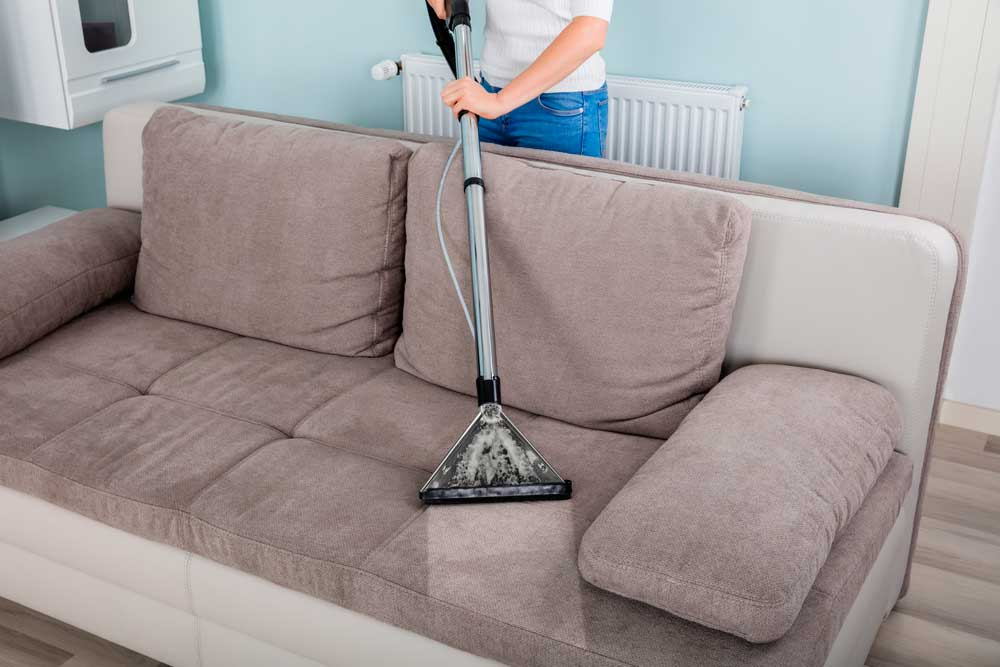
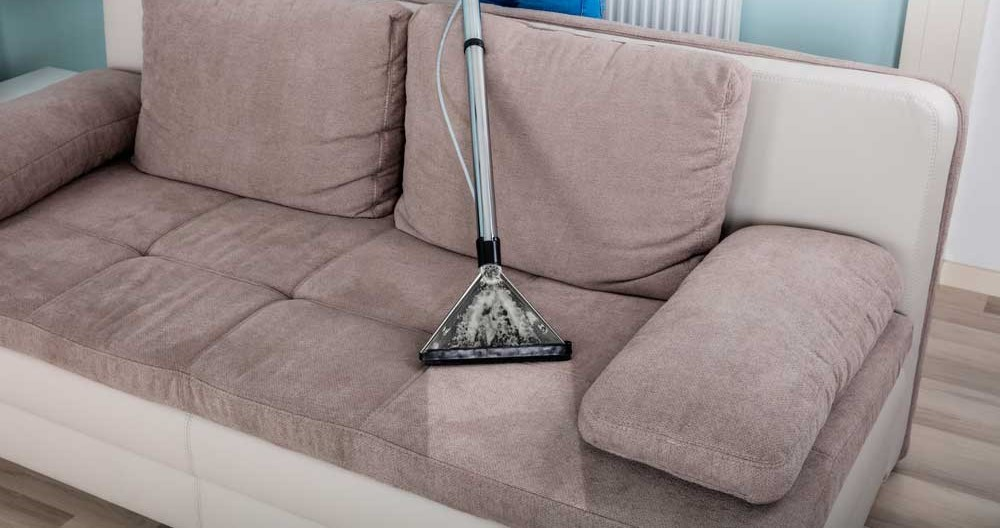
updated firebase hosting

diff --git a/logis/public/estofado.html b/logis/public/estofado.html
@@ -79,7 +79,7 @@
 
   
 
-    <div class="site-blocks-cover overlay" style="background-image: url(images/capa/EstofadoCapa.jpg);" data-aos="fade" data-stellar-background-ratio="0.5" id="section-home">
+    <div class="site-blocks-cover overlay" style="background-image: url(images/capa/capaEstofados.jpg);" data-aos="fade" data-stellar-background-ratio="0.5" id="section-home">
       <div class="container">
         <div class="row align-items-center justify-content-center text-center">
 
